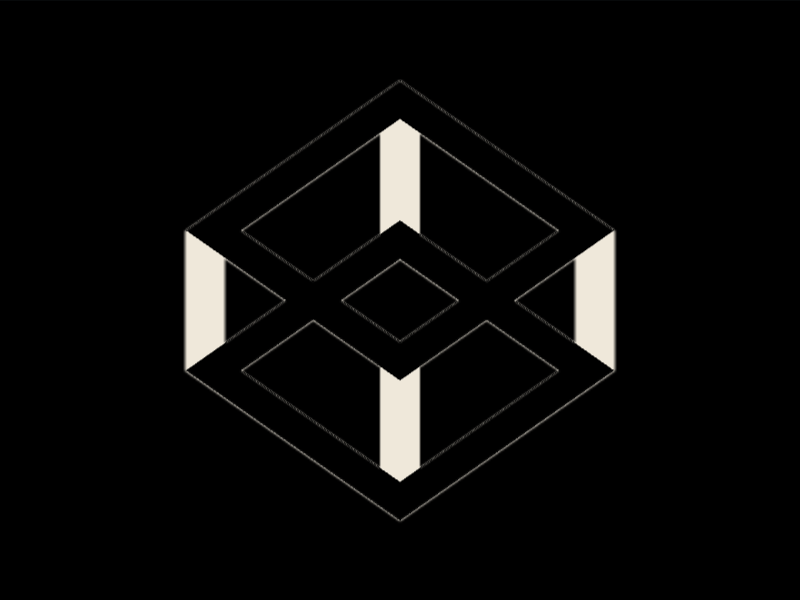
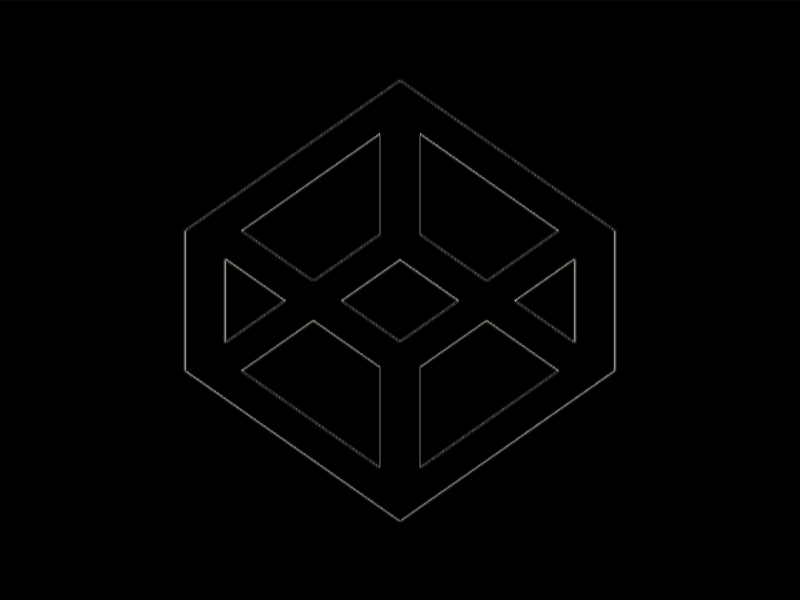
Score: 615.36, Characters: 342 (100.00% match) - CSSHub

diff --git a/Battles/Battle #34/#219. CodePen/README.md b/Battles/Battle #34/#219. CodePen/README.md
@@ -22,18 +22,32 @@ Challenge: <https://cssbattle.dev/play/219>
 ## Code
 
 ```html
-<p><p>
+<p><p><h5>
 <style>
 & {
   background:#101724;
   color: fff;
+  >*{
+
+  }
   p{
-    border: solid 1em;
+    border: solid 16px;
     height: 118;
     margin: 40 85 -120;
     border-radius: 100%;
     corner-shape: bevel;
   }
+  h5{
+    height:70;
+    
+    margin:32 182;
+    box-shadow:
+      inset 1in 0,
+      0 -113px,
+      97px -57px,
+      -97px -57px
+  }
+ 
 }
 </style>
 ```
@@ -41,18 +55,31 @@ Challenge: <https://cssbattle.dev/play/219>
 ## Prettified code
 
 ```html
-<p><p>
+<p><p><h5>
 <style>
 & {
   background:#101724;
   color: fff;
+  >*{
+  }
   p{
-    border: solid 1em;
+    border: solid 16px;
     height: 118;
     margin: 40 85 -120;
     border-radius: 100%;
     corner-shape: bevel;
   }
+  h5{
+    height:70;
+    
+    margin:32 182;
+    box-shadow:
+      inset 1in 0,
+      0 -113px,
+      97px -57px,
+      -97px -57px
+  }
+ 
 }
 </style>
 ```

diff --git a/README.md b/README.md
@@ -132,7 +132,7 @@ Note - I have not yet complete all the challenges.
 <summary><strong>Battle #34 (4)</strong></summary>
 
 <ul>
-<li><a href="./Battles/Battle%20%2334/%23219.%20CodePen/">#219. CodePen</a> (188 Characters)</li>
+<li><a href="./Battles/Battle%20%2334/%23219.%20CodePen/">#219. CodePen</a> (342 Characters)</li>
 <li><a href="./Battles/Battle%20%2334/%23222.%20Rocket/">#222. Rocket</a> (202 Characters)</li>
 <li><a href="./Battles/Battle%20%2334/%23224.%20Levelled/">#224. Levelled</a> (206 Characters)</li>
 <li><a href="./Battles/Battle%20%2334/%23226.%20Bond/">#226. Bond</a> (143 Characters)</li>
